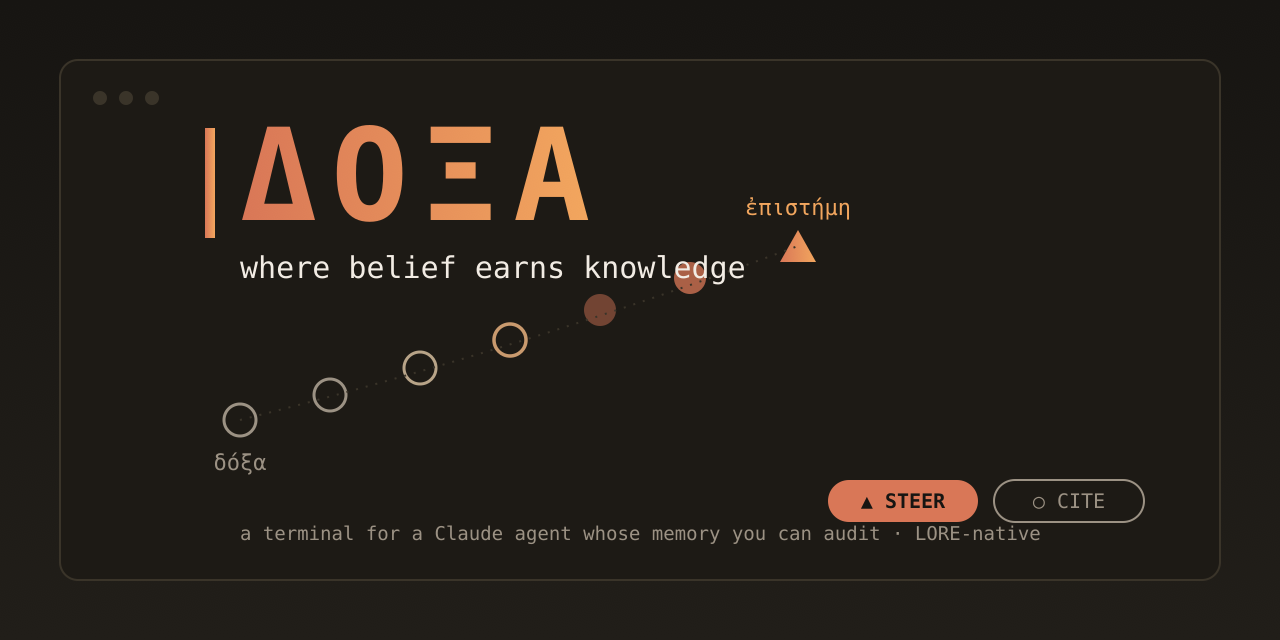
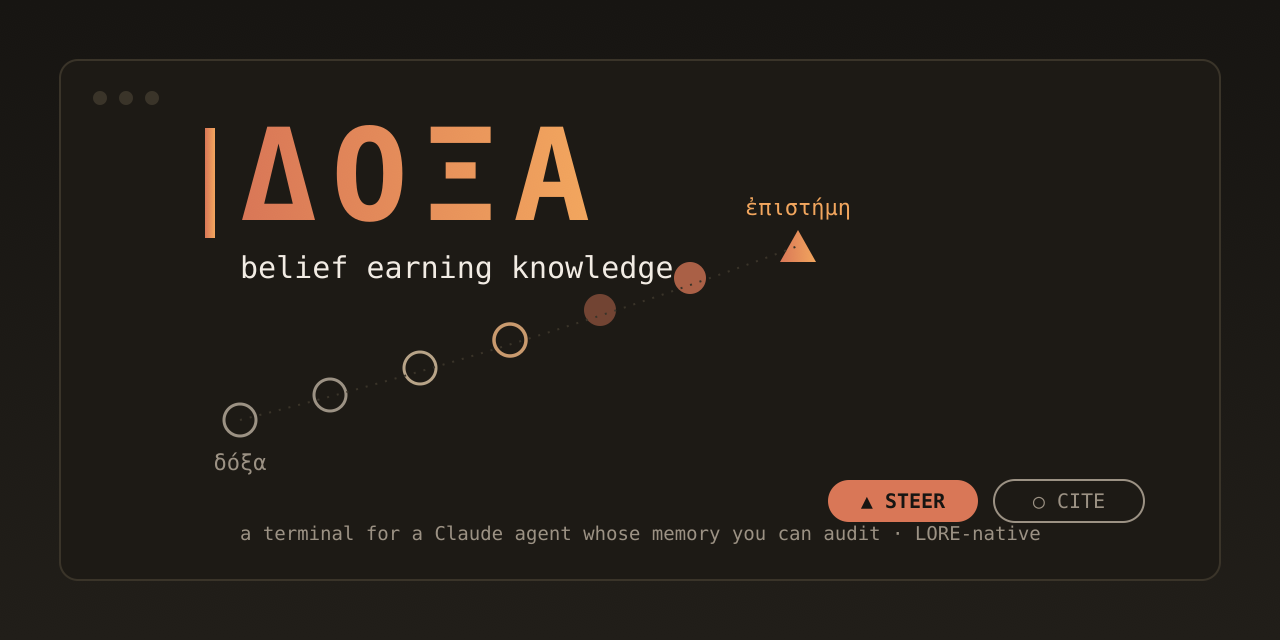
assets: shorten slogan to 'belief earning knowledge'

Changed region(s): [[0.1875, 0.4062, 0.5938, 0.4375]]

diff --git a/README.md b/README.md
@@ -1,8 +1,8 @@
-<p align="center"><img src="assets/banner.png" width="720" alt="DOXA — where belief earns knowledge: the doxa-to-episteme ascent, outline beliefs earning fill toward the STEER triangle"></p>
+<p align="center"><img src="assets/banner.png" width="720" alt="DOXA — belief earning knowledge: the doxa-to-episteme ascent, outline beliefs earning fill toward the STEER triangle"></p>
 
 # <img src="assets/icon.png" width="42" align="top" alt=""> DOXA
 
-**Where belief earns knowledge.**
+**Belief earning knowledge.**
 
 A terminal for working with a Claude agent whose memory you can audit. DOXA is
 the native home for [LORE](https://github.com/docwilde/LORE)'s memory model —
